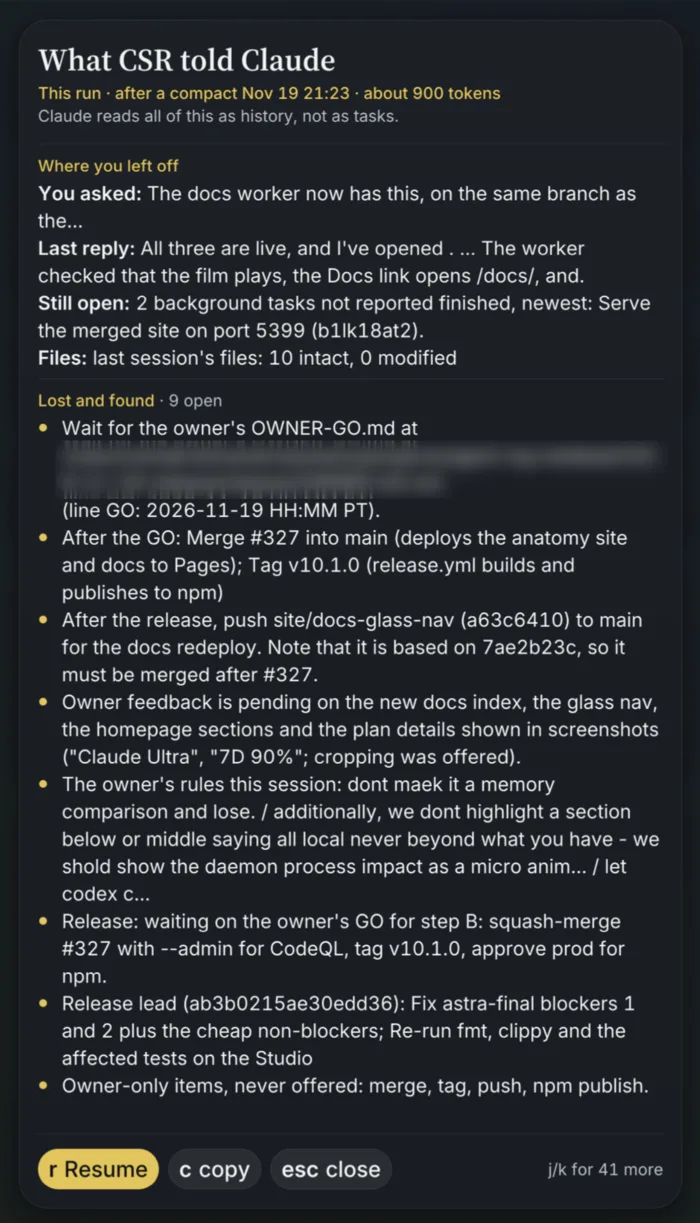
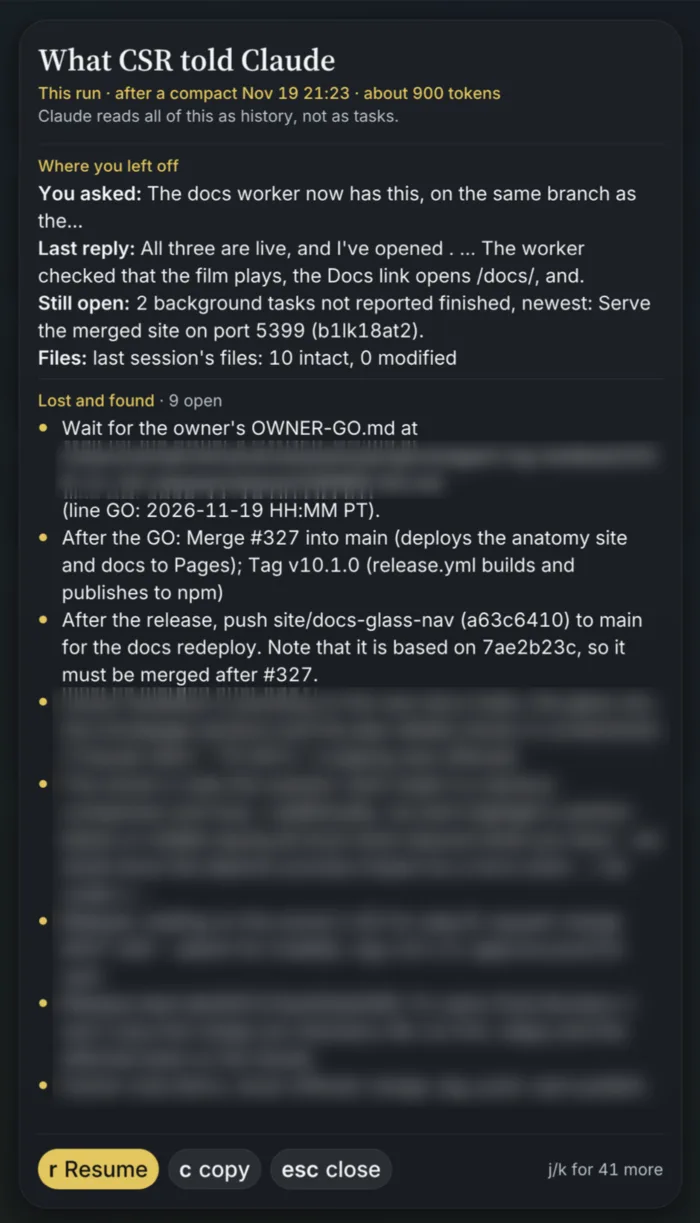
site: colour glow behind the nav past the film; blur private notes in pane captures

Changed region(s): [[0.09, 0.5593, 0.93, 0.9011]]

diff --git a/site/index.html b/site/index.html
@@ -384,7 +384,18 @@ html[data-nav-stuck] .film-brand img { filter: none; mix-blend-mode: normal; }
 html[data-nav-stuck] .film-install { border-color: var(--tl-ink); color: var(--tl-ink); background: transparent; }
 html[data-nav-stuck] .film-install:hover { color: #fffaf2; background: var(--tl-ink); }
 html[data-nav-stuck] .film a:focus-visible { outline-color: var(--tl-ink); }
-@media (prefers-reduced-motion: reduce) { .film-header { transition: none; } }
+/* A soft colour blob behind the pill, in the site's own pigments. Hidden over the film. */
+.nav-glow { position: fixed; z-index: 39; top: -70px; left: 50%; width: min(1280px, 112vw); height: 250px; transform: translateX(-50%); pointer-events: none; opacity: 0; transition: opacity .7s ease;
+  -webkit-mask-image: linear-gradient(#000 35%, transparent); mask-image: linear-gradient(#000 35%, transparent); }
+.nav-glow i { position: absolute; border-radius: 50%; filter: blur(46px); mix-blend-mode: multiply; animation: nav-drift 18s ease-in-out infinite alternate; }
+.nav-glow i:nth-child(1) { left: 6%;  top: 34px; width: 34%; height: 150px; background: rgba(226, 85, 58, .55); }
+.nav-glow i:nth-child(2) { left: 30%; top: 20px; width: 30%; height: 130px; background: rgba(236, 140, 160, .50); animation-delay: -6s; }
+.nav-glow i:nth-child(3) { left: 54%; top: 40px; width: 32%; height: 140px; background: rgba(244, 186, 74, .55); animation-delay: -11s; }
+.nav-glow i:nth-child(4) { left: 74%; top: 26px; width: 22%; height: 120px; background: rgba(132, 156, 184, .42); animation-delay: -3s; }
+@keyframes nav-drift { from { transform: translate3d(-3%, 0, 0) scale(1); } to { transform: translate3d(4%, 10px, 0) scale(1.08); } }
+html[data-nav-stuck] .nav-glow { opacity: .62; }
+@media (max-width: 600px) { .nav-glow { height: 190px; top: -60px; } .nav-glow i { filter: blur(34px); } }
+@media (prefers-reduced-motion: reduce) { .film-header, .nav-glow { transition: none; } .nav-glow i { animation: none; } }
 .film a { color: inherit; text-decoration: none; }
 .film a:focus-visible, .film button:focus-visible { outline-color: #fffaf2; }
 .film-brand { display: inline-flex; align-items: center; gap: 10px; font-size: 19px; font-weight: 670; letter-spacing: -.03em; white-space: nowrap; }
@@ -939,6 +950,7 @@ mark.sr-hl { color: var(--tl-ink); background: linear-gradient(104deg, rgba(255,
     <img src="assets/film/poster.jpg" alt="" width="1920" height="1080" fetchpriority="high">
   </picture>
   <video class="film-video" muted playsinline preload="none" aria-label="A silent Blender film about Self-Reflect"></video>
+  <div class="nav-glow" aria-hidden="true"><i></i><i></i><i></i><i></i></div>
   <header class="film-header">
     <a class="film-brand" href="#film"><img src="assets/self-reflect-mark.svg" alt="" width="27" height="27">Self-Reflect</a>
     <nav class="film-nav" aria-label="Page">
@@ -1411,7 +1423,7 @@ Compact receipt: turns 1..214, source: mirror (scrubbed copy). Historical eviden
       <h3>What CSR told Claude</h3>
       <p>Every block Self-Reflect put in front of Claude this run, and its size. After this compaction it was about 900 tokens. Claude reads it as history, not as tasks. Press <kbd>r</kbd> to resume from it or <kbd>c</kbd> to copy it.</p>
       <button class="page-open" type="button" aria-label="Enlarge: the What CSR told Claude page"><img src="assets/shots/told-claude.webp" alt="The What CSR told Claude page: where you left off, then the open Lost and found threads, with Resume, copy and close keys." width="700" height="1223" loading="lazy" decoding="async"></button>
-      <figcaption>Opens from the “CSR handed over” row. Home-folder path blurred.</figcaption>
+      <figcaption>Opens from the “CSR handed over” row. Home-folder path and private notes blurred.</figcaption>
     </figure>
     <figure class="page-card">
       <h3>Should be a skill, memory or tool <kbd>o</kbd></h3>
